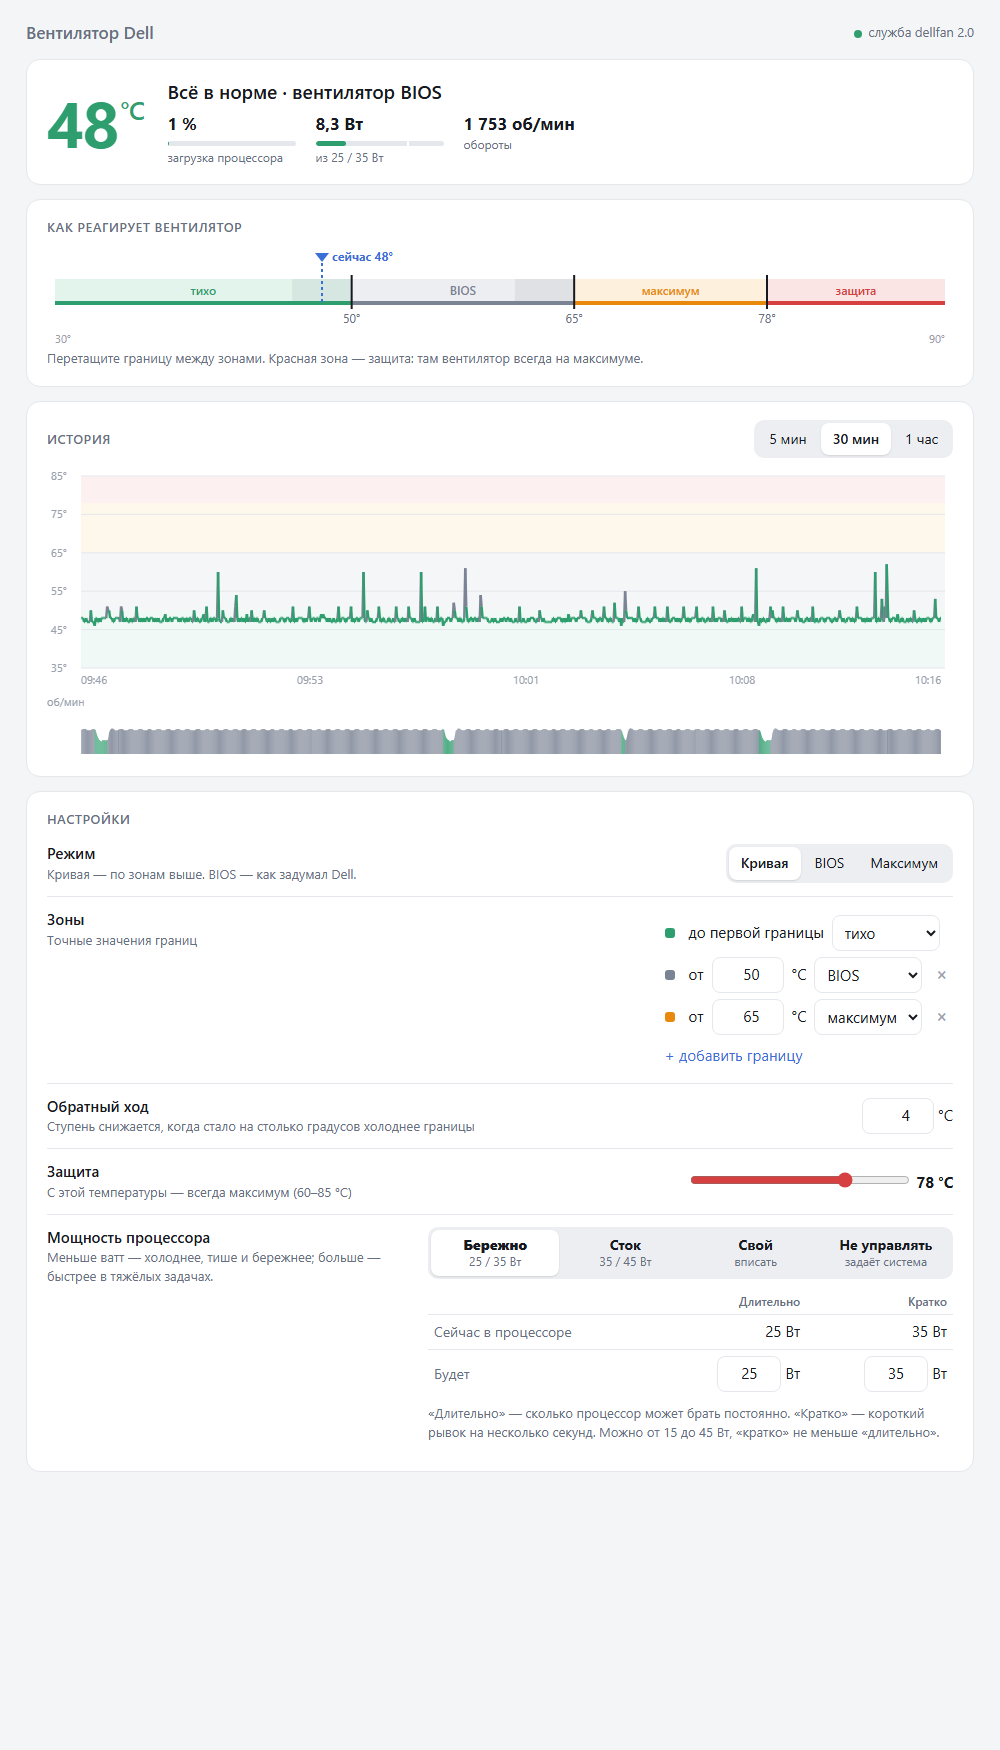
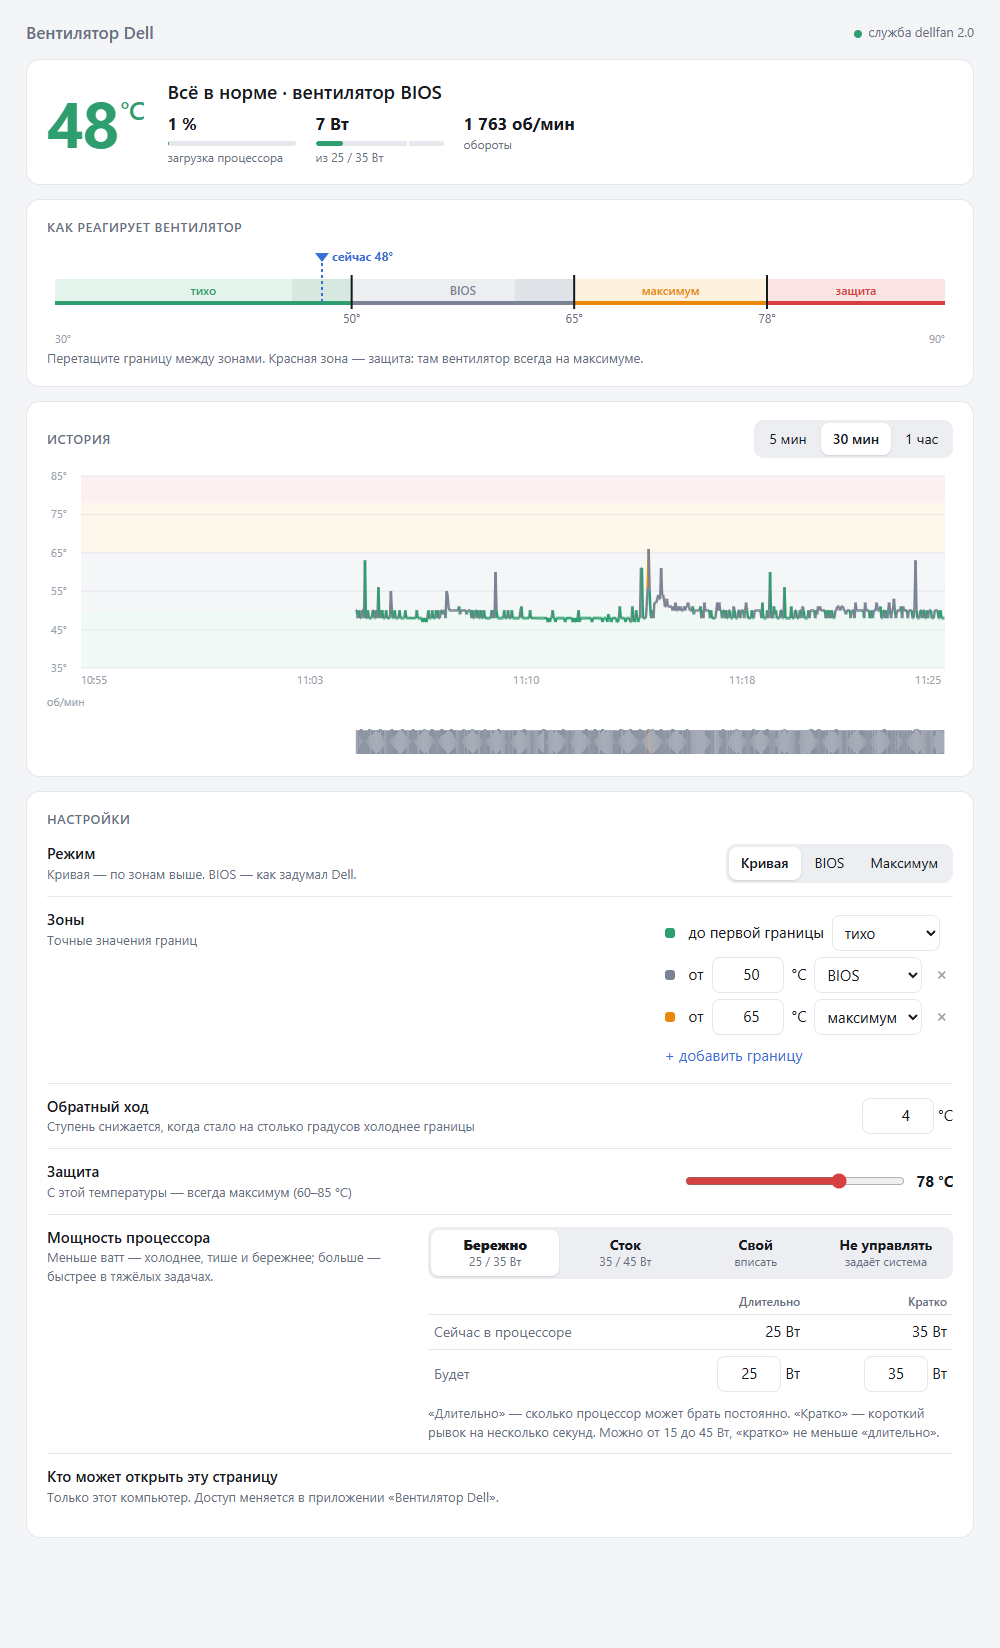
Web page: phone layout, honest access note, dark-theme fixes
- Narrow screens: caption on top and control below at full width, the three
  numbers of the top card in one line, units stay next to their fields, no empty
  gaps in the power block (inline flex-basis turned into height).
- "Who can open this page" is its own row and tells the truth when the page is
  opened through another name (a reverse proxy): anyone who can open that name
  can change settings.
- Dark theme: the selected segment is lighter than the others, not darker.
- App: the safety scale shows "°C".
Checked with an emulated iPhone (390 px, light/dark) and desktop (1000 px).

diff --git a/service/web/index.html b/service/web/index.html
@@ -8,13 +8,13 @@
 :root{
   --bg:#f4f5f7; --surface:#ffffff; --text:#16191f; --muted:#68707f; --faint:#9aa1ad; --line:#e4e7ec;
   --quiet:#2f9e6e; --bios:#7b8494; --max:#e8890c; --safety:#d64040; --accent:#3b6fd8; --warn:#c99a06;
-  --quiet-bg:#e3f4ec; --bios-bg:#eceef2; --max-bg:#fdf0dc; --safety-bg:#fbe4e4;
+  --quiet-bg:#e3f4ec; --bios-bg:#eceef2; --max-bg:#fdf0dc; --safety-bg:#fbe4e4; --seg-on:#ffffff;
   --radius:14px;
 }
 @media (prefers-color-scheme:dark){:root{
   --bg:#121418; --surface:#1b1e24; --text:#eceef2; --muted:#9aa1ad; --faint:#6b7280; --line:#2a2f37;
   --quiet:#3fbf86; --bios:#8d96a6; --max:#f2a033; --safety:#ef5b5b; --accent:#6b95ef; --warn:#e3bb3a;
-  --quiet-bg:#173327; --bios-bg:#252a32; --max-bg:#3a2a12; --safety-bg:#3d1e1e;
+  --quiet-bg:#173327; --bios-bg:#252a32; --max-bg:#3a2a12; --safety-bg:#3d1e1e; --seg-on:#3b414d;
 }}
 *{box-sizing:border-box}
 body{margin:0;background:var(--bg);color:var(--text);font:15px/1.45 system-ui,-apple-system,"Segoe UI",Roboto,"Ubuntu",sans-serif;-webkit-font-smoothing:antialiased}
@@ -48,7 +48,7 @@ h2{font-size:13px;font-weight:600;text-transform:uppercase;letter-spacing:.04em;
 /* history */
 .seg{display:inline-flex;background:var(--bios-bg);border-radius:10px;padding:3px;gap:2px}
 .seg button{border:0;background:transparent;color:var(--text);font:inherit;font-size:14px;padding:6px 12px;border-radius:8px;cursor:pointer}
-.seg button.on{background:var(--surface);box-shadow:0 1px 2px rgba(0,0,0,.12);font-weight:600}
+.seg button.on{background:var(--seg-on);box-shadow:0 1px 2px rgba(0,0,0,.12);font-weight:600}
 .histhead{display:flex;justify-content:space-between;align-items:center;margin-bottom:10px;gap:10px;flex-wrap:wrap}
 canvas{display:block;width:100%}
 #tchart{height:220px} #rchart{height:64px;margin-top:6px}
@@ -64,6 +64,8 @@ select{font:inherit;padding:6px 8px;border:1px solid var(--line);border-radius:8
 .chip{display:inline-block;width:10px;height:10px;border-radius:3px;margin-right:6px;vertical-align:middle}
 .link{border:0;background:none;color:var(--accent);font:inherit;cursor:pointer;padding:4px 0}
 .x{border:0;background:none;color:var(--faint);font-size:18px;cursor:pointer;line-height:1}
+.nowrap{white-space:nowrap}
+.rng{display:flex;align-items:center;gap:10px}
 .seg.wide{display:flex;width:100%}
 .seg.wide button{flex:1;display:flex;flex-direction:column;align-items:center;gap:1px;padding:7px 6px;line-height:1.2}
 .seg.wide small{font-size:12px;color:var(--muted);font-weight:400}
@@ -82,7 +84,18 @@ table.pw input:disabled{opacity:.55}
 .btn.primary{background:var(--accent);border-color:var(--accent);color:#fff;font-weight:600}
 .toast{position:fixed;top:16px;left:50%;transform:translateX(-50%);background:var(--text);color:var(--bg);padding:10px 16px;border-radius:10px;font-size:14px;opacity:0;transition:opacity .2s;pointer-events:none;max-width:90vw}
 .toast.show{opacity:.95}
-@media (max-width:620px){ .hero{grid-template-columns:1fr} .temp{font-size:52px} input[type=range]{width:150px} }
+@media (max-width:620px){
+  .hero{grid-template-columns:1fr} .temp{font-size:52px}
+  /* three numbers in one line */
+  .facts{display:grid;grid-template-columns:repeat(3,minmax(0,1fr));gap:12px}
+  .fact.meter{min-width:0} .fact b{font-size:15px;white-space:nowrap}
+  /* settings: caption on top, control below at full width (like phone settings) */
+  .row{flex-direction:column;align-items:stretch;gap:8px}
+  .row .seg{display:flex} .row .seg button{flex:1}
+  .rng input[type=range]{flex:1;width:auto}
+  .pts .pt{flex-wrap:wrap}
+  .row.power > div{flex:none !important}   /* inline desktop flex-basis would turn into height here */
+}
 </style>
 </head>
 <body>
@@ -124,9 +137,9 @@ table.pw input:disabled{opacity:.55}
     <div class="row" style="align-items:flex-start"><div><div class="t">Зоны</div><div class="d">Точные значения границ</div></div>
       <div class="pts" id="pts"></div></div>
     <div class="row"><div><div class="t">Обратный ход</div><div class="d">Ступень снижается, когда стало на столько градусов холоднее границы</div></div>
-      <div><input type="number" id="hyst" min="1" max="10"> °C</div></div>
+      <div class="nowrap"><input type="number" id="hyst" min="1" max="10"> °C</div></div>
     <div class="row"><div><div class="t">Защита</div><div class="d">С этой температуры — всегда максимум (60–85 °C)</div></div>
-      <div><input type="range" id="safety" min="60" max="85"> <b id="safetyv"></b></div></div>
+      <div class="rng"><input type="range" id="safety" min="60" max="85"> <b id="safetyv" class="nowrap"></b></div></div>
     <div class="row power" style="align-items:flex-start;flex-wrap:wrap">
       <div style="flex:1 1 260px"><div class="t">Мощность процессора</div>
         <div class="d">Меньше ватт — холоднее, тише и бережнее; больше — быстрее в тяжёлых задачах.</div></div>
@@ -140,12 +153,12 @@ table.pw input:disabled{opacity:.55}
         <table class="pw">
           <tr><th></th><th>Длительно</th><th>Кратко</th></tr>
           <tr><td>Сейчас в процессоре</td><td id="cur1">—</td><td id="cur2">—</td></tr>
-          <tr><td>Будет</td><td><input type="number" id="pl1" min="15" max="45"> Вт</td><td><input type="number" id="pl2" min="15" max="45"> Вт</td></tr>
+          <tr><td>Будет</td><td class="nowrap"><input type="number" id="pl1" min="15" max="45"> Вт</td><td class="nowrap"><input type="number" id="pl2" min="15" max="45"> Вт</td></tr>
         </table>
         <div class="d" id="pwnote" style="margin-top:8px;display:none;color:var(--text)"></div>
-        <div class="small" id="webnote" style="margin-top:16px"></div>
         <div class="d" style="margin-top:6px">«Длительно» — сколько процессор может брать постоянно. «Кратко» — короткий рывок на несколько секунд. Можно от 15 до 45 Вт, «кратко» не меньше «длительно».</div>
       </div></div>
+    <div class="row access"><div><div class="t">Кто может открыть эту страницу</div><div class="d" id="webnote"></div></div></div>
   </section>
 </main>
 
@@ -291,11 +304,14 @@ $("#apply").onclick=async()=>{draft.points.sort((a,b)=>a.temp-b.temp);
 
 // ---- who can open this page (changed only in the desktop app) ----
 function renderWebNote(){
-  const w=st.config.web; if(!w){$("#webnote").textContent="";return;}
+  const w=st.config.web; if(!w){$(".row.access").style.display="none";return;}
+  const host=location.hostname, direct=["127.0.0.1","localhost","[::1]","::1"].includes(host);
   $("#webnote").textContent = w.access==="network"
-    ? (w.network_readonly ? "Страница открыта для всей сети в режиме «только просмотр» — менять настройки можно в приложении «Вентилятор Dell»."
-                          : "Страница открыта для всей сети без пароля. Доступ меняется в приложении «Вентилятор Dell».")
-    : "Страница открывается только на этом компьютере. Доступ меняется в приложении «Вентилятор Dell».";
+    ? (w.network_readonly ? "Все устройства в домашней сети — только смотреть. Менять настройки можно в приложении «Вентилятор Dell»."
+                          : "Все устройства в домашней сети, без пароля — и смотреть, и менять. Доступ меняется в приложении «Вентилятор Dell».")
+    : direct ? "Только этот компьютер. Доступ меняется в приложении «Вентилятор Dell»."
+    : "Вы открыли страницу через адрес «"+host+"» — значит, её может открыть и менять настройки любой, кому доступен этот адрес. "
+      +"Сама программа слушает только этот компьютер; ограничить доступ можно в настройках программы-переходника, которая отдаёт страницу по этому адресу.";
 }
 
 // ---- charts ----

diff --git a/app/dellfan-gui.py b/app/dellfan-gui.py
@@ -291,6 +291,7 @@ class Window(Adw.ApplicationWindow):
         self.safe_row = Adw.ActionRow(title=T("safety_t"), subtitle=T("safety_d"))
         self.safe_scale = Gtk.Scale.new_with_range(Gtk.Orientation.HORIZONTAL, 60, 85, 1)
         self.safe_scale.add_css_class("safety-scale"); self.safe_scale.set_size_request(220, -1); self.safe_scale.set_draw_value(True); self.safe_scale.set_value_pos(Gtk.PositionType.RIGHT)
+        self.safe_scale.set_format_value_func(lambda sc, v: "%d °C" % v)
         self.safe_scale.connect("value-changed", lambda s: self._set("safety_max", int(s.get_value())))
         self.safe_row.add_suffix(self.safe_scale); self.prefs.add(self.safe_row)
         self.power_row = Adw.ActionRow(title=T("power"), subtitle=T("power_d"))
